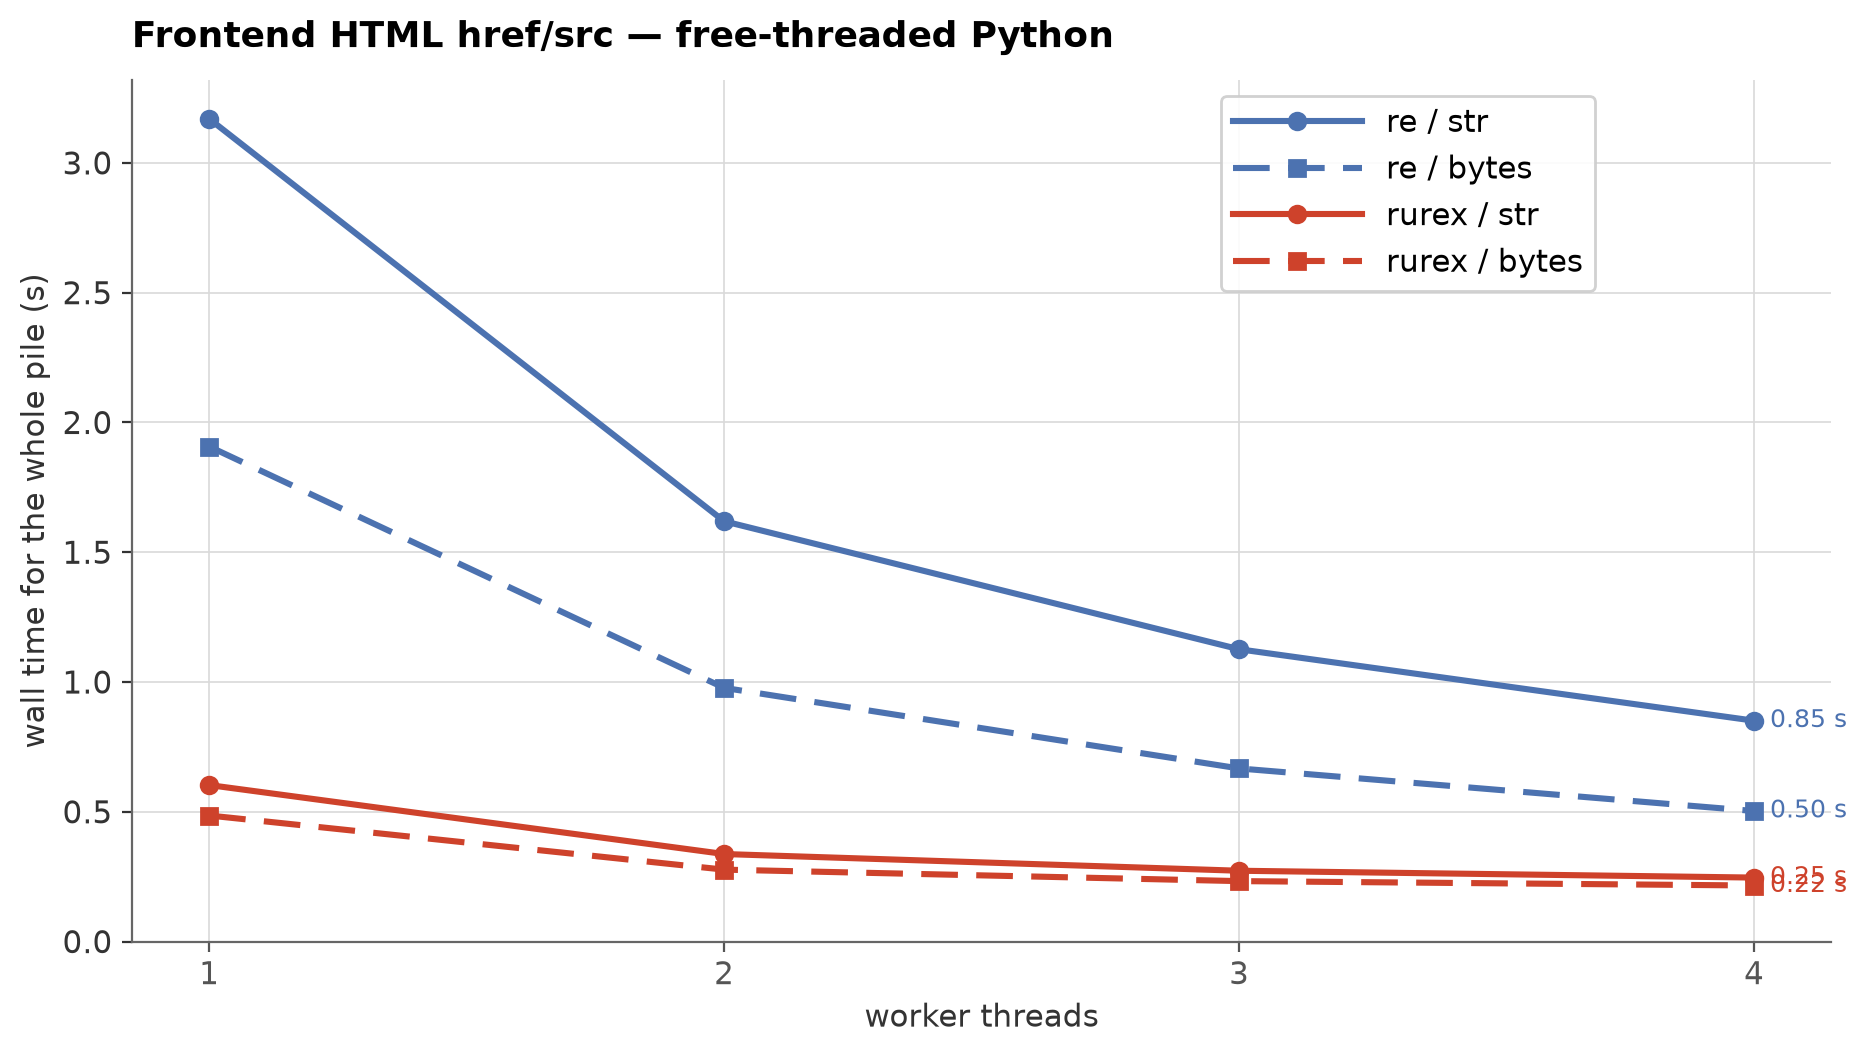
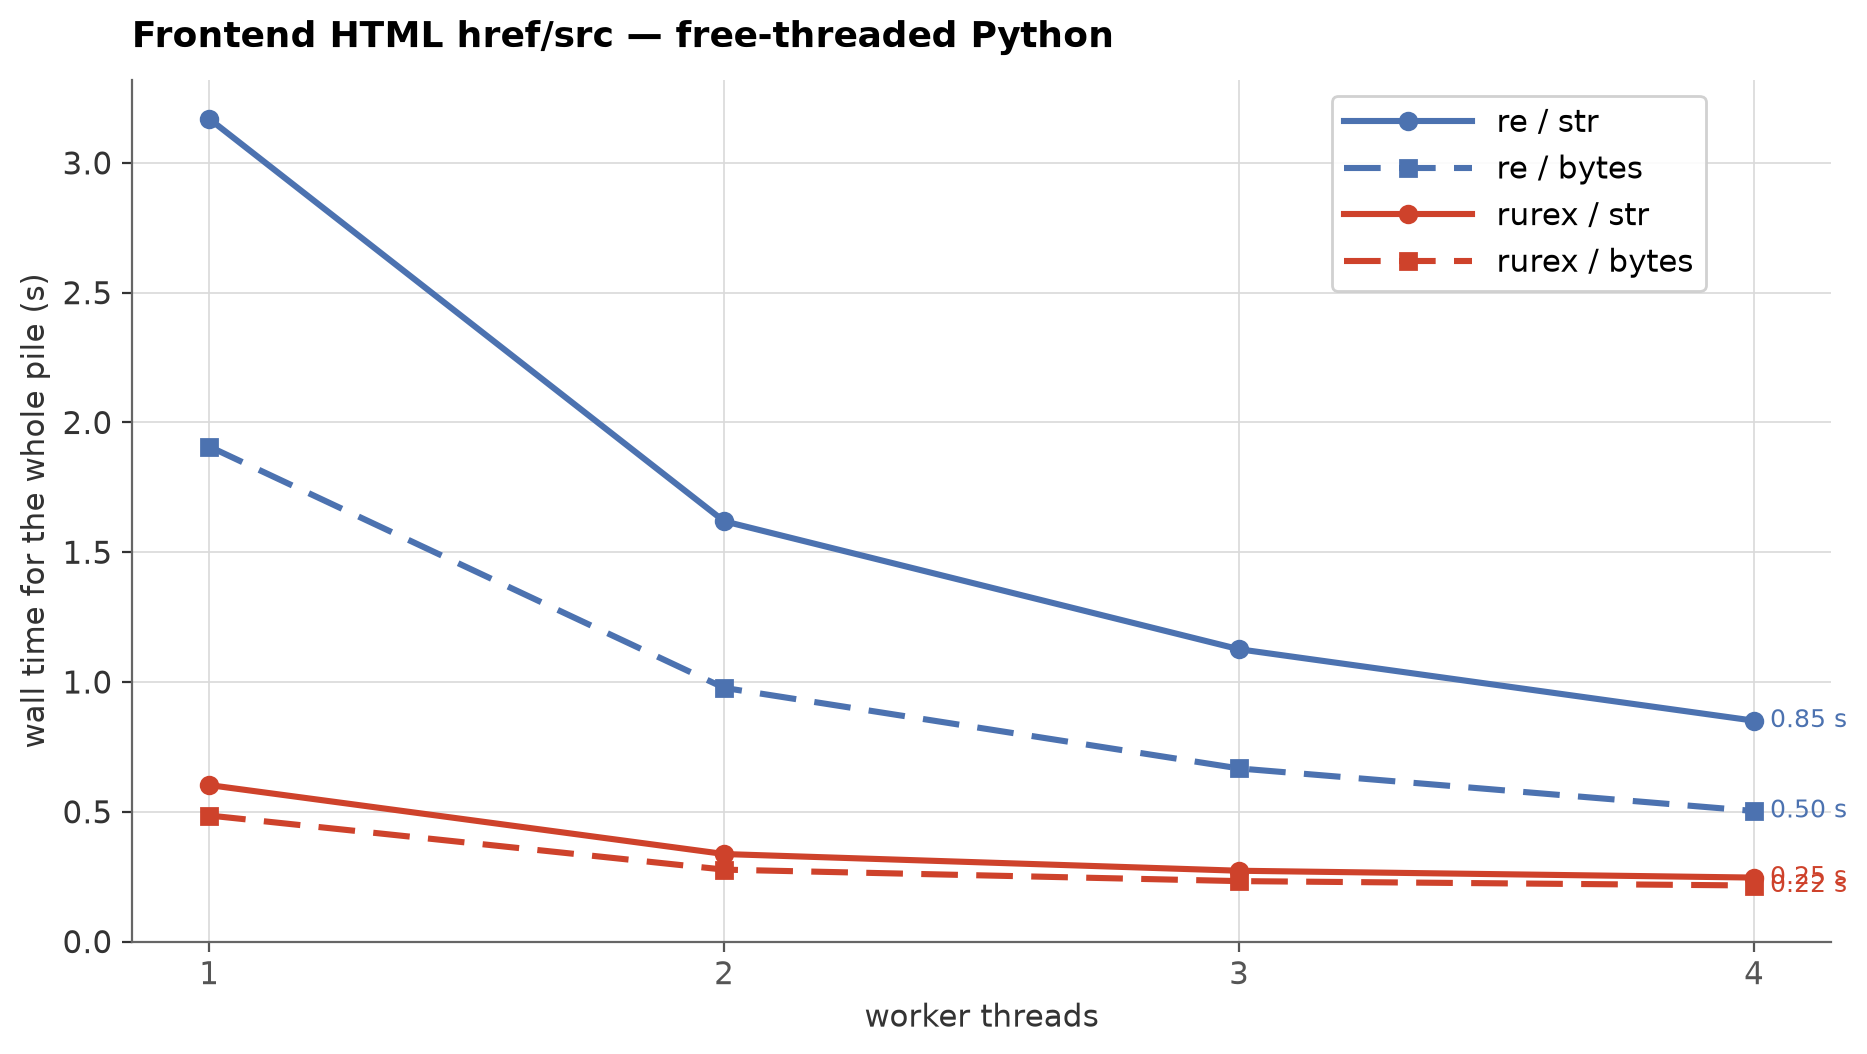
docs: halve the homepage legend offset
bbox_to_anchor=(0.935, 1.0) instead of 0.87: half the previous shift to
the left, same spot on both panels, with the re/str end marker and its
3.45 s label still clear of the box.

diff --git a/benchmarks/frontend_html_charts.py b/benchmarks/frontend_html_charts.py
@@ -112,7 +112,7 @@ def chart(data, interp, out_name):
     # panels.
     ax.legend(
         loc="upper right",
-        bbox_to_anchor=(0.87, 1.0),
+        bbox_to_anchor=(0.935, 1.0),
         handlelength=4.2,
         handletextpad=0.8,
     )
